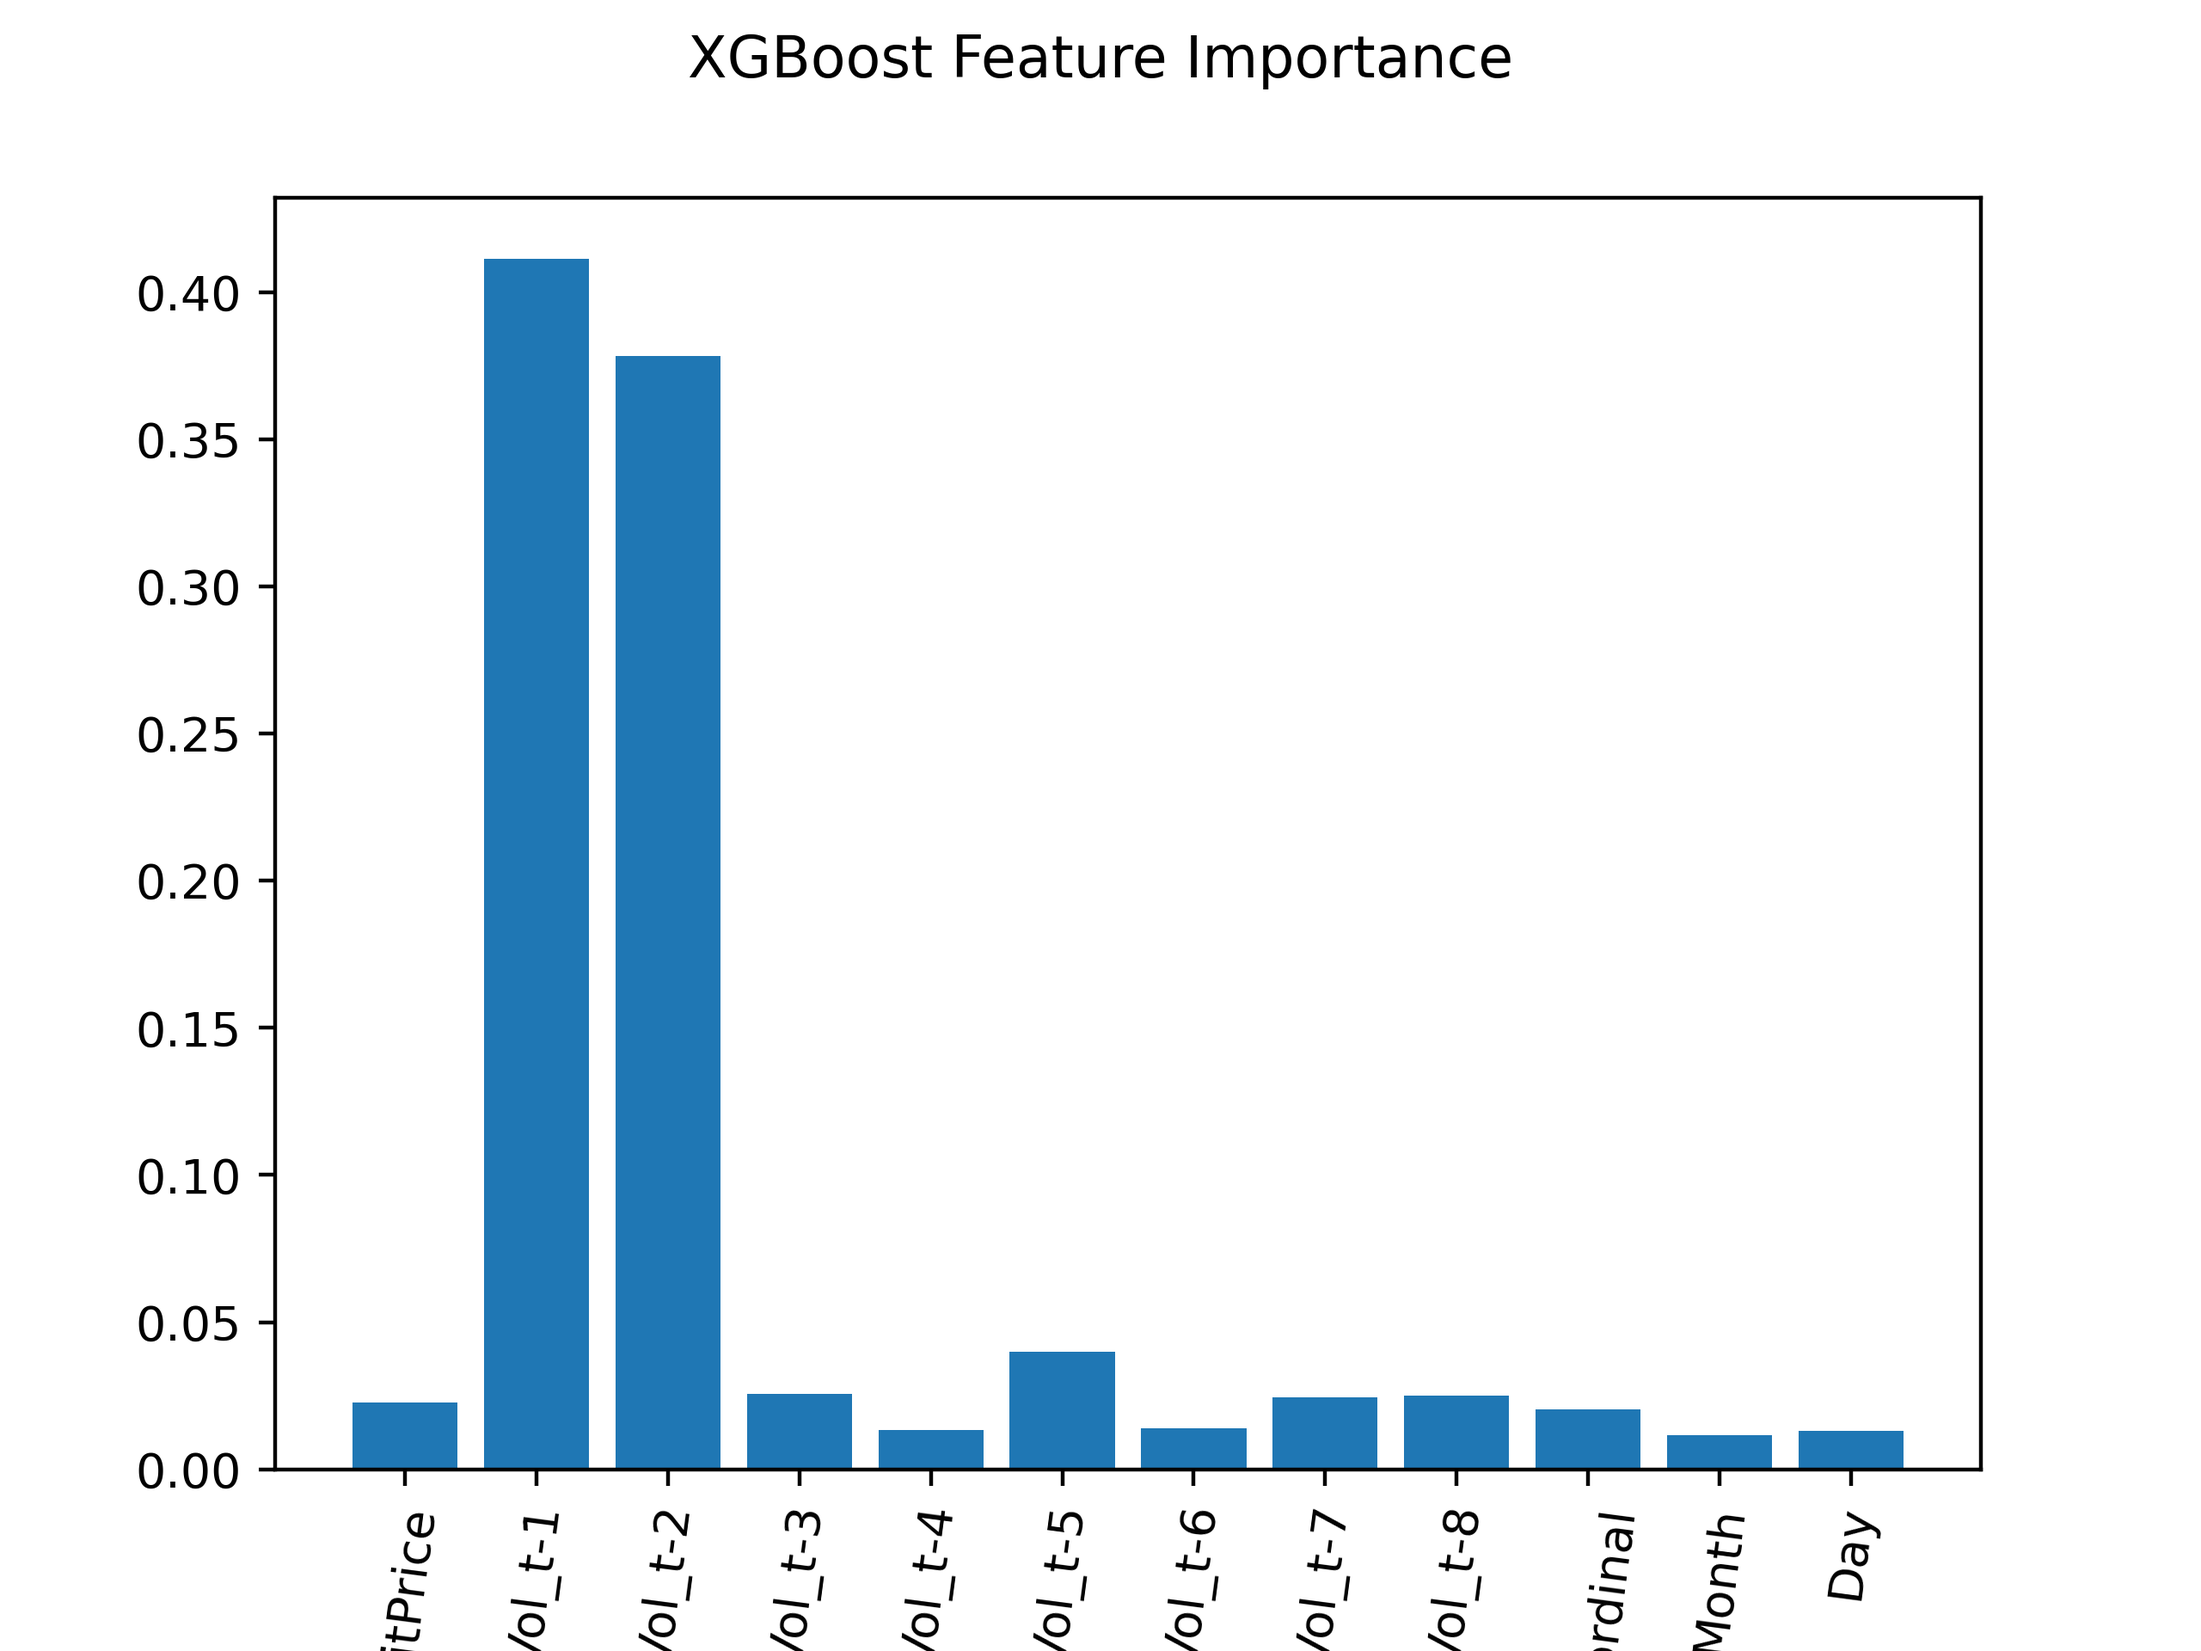
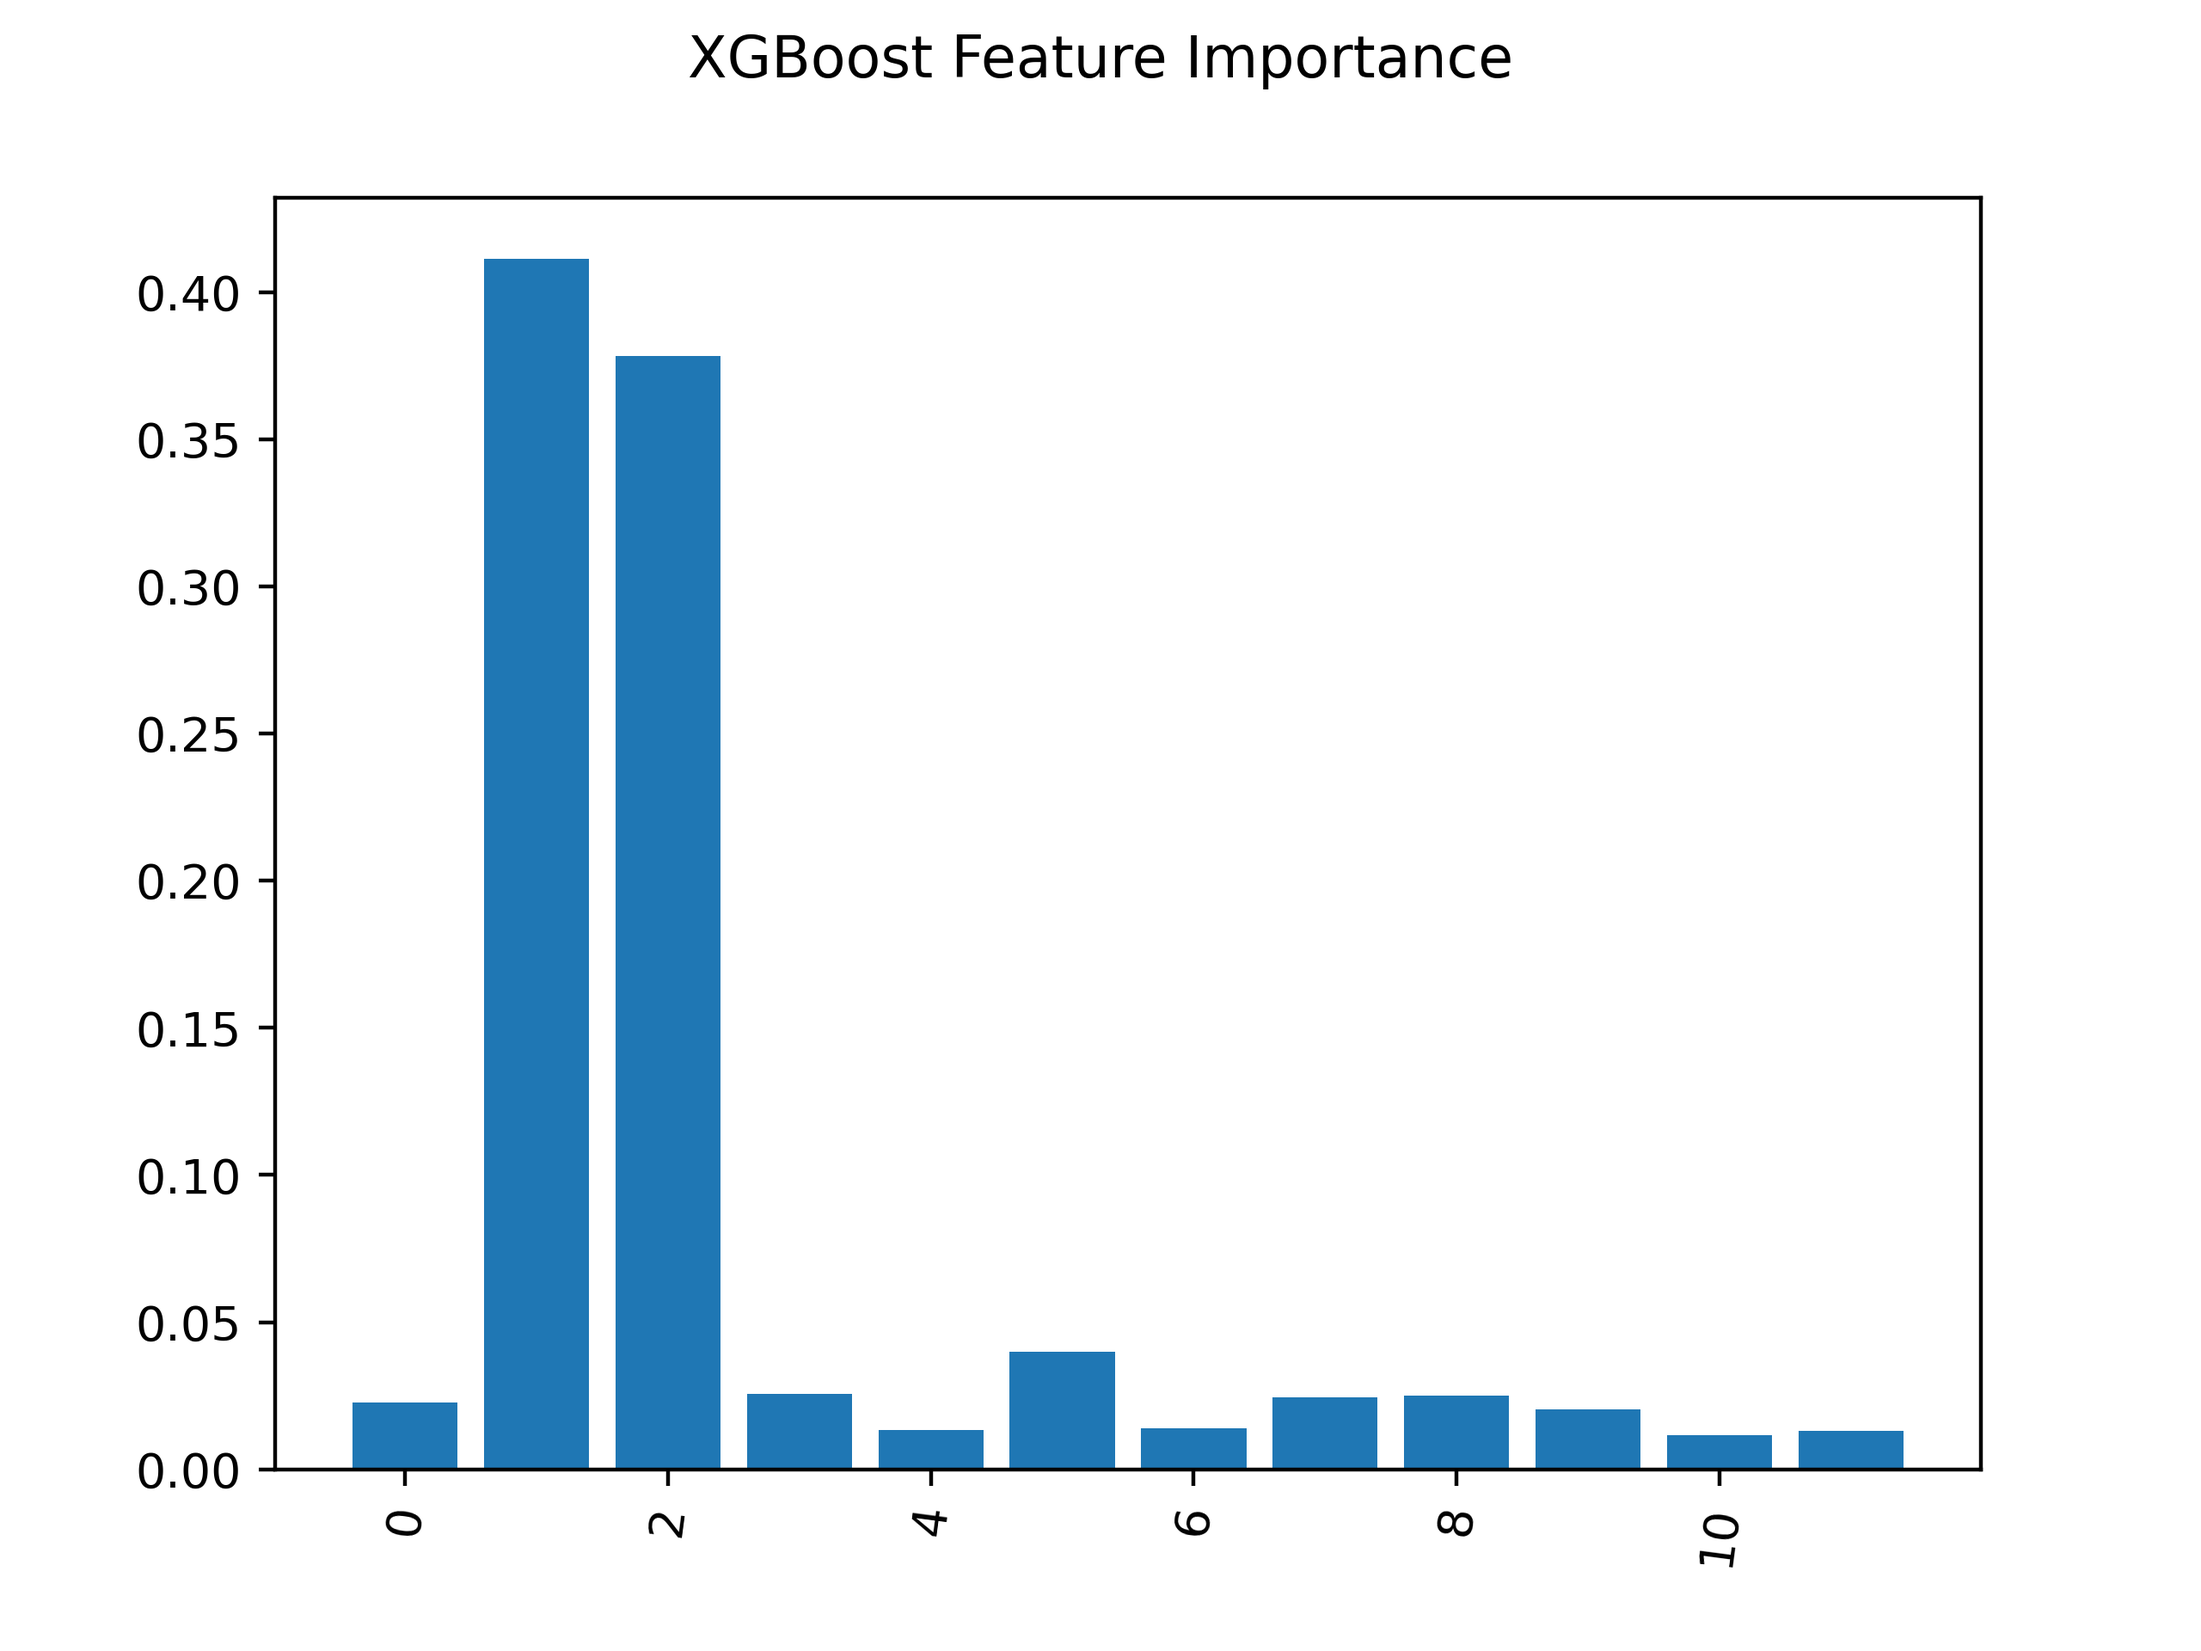
checkpoint

diff --git a/models/xgboost_model.py b/models/xgboost_model.py
@@ -2,28 +2,99 @@ import pandas as pd
 import xgboost
 from xgboost import XGBRegressor
 import matplotlib.pyplot as plt
+import pickle
+from xgboost import Booster
 
-train_x = pd.read_pickle("../data/interim/train_x.pkl")
-train_y = pd.read_pickle("../data/interim/train_y.pkl")
-test_x = pd.read_pickle("../data/interim/test_x.pkl")
-test_y = pd.read_pickle("../data/interim/test_y.pkl")
+pd.set_option('display.max_rows', 100)
 
-# TODO: Hyperparameter tuning
+train_x = pd.read_csv("../data/interim/train_x.csv", header=None)
+train_y = pd.read_csv("../data/interim/train_y.csv", header=None)
+test_x = pd.read_csv("../data/interim/test_x.csv", header=None)
+test_y = pd.read_csv("../data/interim/test_y.csv", header=None)
 
-'''Define the model'''
+# # TODO: Hyperparameter tuning
+#
+# '''Define the model'''
+#
+# model = XGBRegressor(
+#     max_depth=8,
+#     n_estimators=1000,
+#     min_child_weight=300,
+#     colsample_bytree=0.8,
+#     subsample=0.8,
+#     eta=0.3,
+#     seed=42)
+#
+# '''Train the model'''
+#
+# model = model.fit(
+#     train_x,
+#     train_y,
+#     eval_metric="rmse",
+#     eval_set=[(train_x, train_y), (test_x, test_y)],
+#     verbose=True,
+#     early_stopping_rounds=10)
+#
+# '''save model to file'''
+#
+# pickle.dump(model, open("../models_trained/xgboost_1.pickle.dat", "wb"))
+#
+# '''Plot feature importance'''
+#
+# plt.bar(train_x.columns, model.feature_importances_)
+# plt.suptitle('XGBoost Feature Importance')
+# plt.xticks(rotation='82.5')
+#
+# plt.savefig('../reports/figures/xgboost_feat_imp.png', dpi=400)
+#
+# '''Make predictions'''
+#
+# model = pickle.load(open("../models_trained/xgboost_1.pickle.dat", "rb"))
+# preds = model.predict(test_x)
+# df = pd.DataFrame(preds)
+# print(df)
+#
+# '''Plot predictions against test_y'''
+#
+# # test set with header
+# test_x = pd.read_csv("../data/interim/test_x_header.csv")
+#
+# # Shape data: reconstruct date
+# test_preds = test_x[['Month', 'Day']].copy()
+# test_preds['Year'] = '2019'
+# test_preds['Month'] = test_preds['Month'].apply(str)
+# test_preds['Day'] = test_preds['Day'].apply(str)
+# test_preds['Date'] = test_preds['Year'].str\
+#     .cat(test_preds['Month'], sep="-")
+# test_preds['Date'] = test_preds['Date'].str\
+#     .cat(test_preds['Day'], sep="-")
+# test_preds = test_preds.drop('Year', axis=1)
+# test_preds = test_preds.drop('Month', axis=1)
+# test_preds = test_preds.drop('Day', axis=1)
+# test_preds['Date'] = pd.to_datetime(test_preds.Date)
+# test_preds = test_preds.sort_values(by=['Date'])
+# # Merge predictions and true volume
+# test_preds['Preds'] = pd.DataFrame(preds)
+# test_preds['Volume'] = test_y.copy()
+# # Sum volume (over all products) per date
+# test_preds = test_preds.groupby(['Date']).sum()
+# test_preds = test_preds.reset_index()
+# print(test_preds)
+#
+# # Plot
+# plt.plot(test_preds['Date'], test_preds['Volume'], label="True Volume")
+# plt.plot(test_preds['Date'], test_preds['Preds'], label="Predictions")
+# plt.xlabel('Date')
+# plt.ylabel('Volume')
+# plt.title('True a predicted volume: test set')
+# plt.legend()
+# plt.xticks(rotation='82.5')
+# plt.savefig(f"../reports/figures/test_preds_vs_true.png")
+# plt.show()
 
-model = XGBRegressor(
-    max_depth=8,
-    n_estimators=1000,
-    min_child_weight=300,
-    colsample_bytree=0.8,
-    subsample=0.8,
-    eta=0.3,
-    seed=42)
+'''Train the model using all data'''
 
-'''Train the model'''
-
-model.fit(
+model = model.fit(
     train_x,
     train_y,
     eval_metric="rmse",
@@ -31,14 +102,6 @@ model.fit(
     verbose=True,
     early_stopping_rounds=10)
 
-'''Plot feature importance'''
+'''save model to file'''
 
-plt.bar(train_x.columns, model.feature_importances_)
-plt.suptitle('XGBoost Feature Importance')
-plt.xticks(rotation='82.5')
-
-plt.savefig('../reports/figures/xgboost_feat_imp.png', dpi=400)
-plt.show()
-
-'''Make predictions'''
-
+pickle.dump(model, open("../models_trained/xgboost_1.pickle.dat", "wb"))

diff --git a/preprocessing/xgboost_data.py b/preprocessing/xgboost_data.py
@@ -34,6 +34,9 @@ data = data.drop('ProductCode', axis=1)
 
 # TODO: Perhaps create lag variables
 
+'''Sort on date and ProductCode'''
+data = data.sort_values(['Date', 'ProductCode_ordinal'])
+
 '''Train-test split'''
 
 nr_dates = data['Date'].nunique()
@@ -62,7 +65,16 @@ test_x['Month'] = pd.DatetimeIndex(test_x['Date']).month*1
 test_x['Day'] = pd.DatetimeIndex(test_x['Date']).day*1
 test_x = test_x.drop('Date', axis=1)
 
-train_x.to_pickle("../data/interim/train_x.pkl")
-train_y.to_pickle("../data/interim/train_y.pkl")
-test_x.to_pickle("../data/interim/test_x.pkl")
-test_y.to_pickle("../data/interim/test_y.pkl")
+'''Create prediction input'''
+
+train_x.to_csv("../data/interim/train_x_header.csv", header=True, index=False)
+train_y.to_csv("../data/interim/train_y_header.csv", header=True, index=False)
+test_x.to_csv("../data/interim/test_x_header.csv", header=True, index=False)
+test_y.to_csv("../data/interim/test_y_header.csv", header=True, index=False)
+
+train_x.to_csv("../data/interim/train_x.csv", header=False, index=False)
+train_y.to_csv("../data/interim/train_y.csv", header=False, index=False)
+test_x.to_csv("../data/interim/test_x.csv", header=False, index=False)
+test_y.to_csv("../data/interim/test_y.csv", header=False, index=False)
+
+
